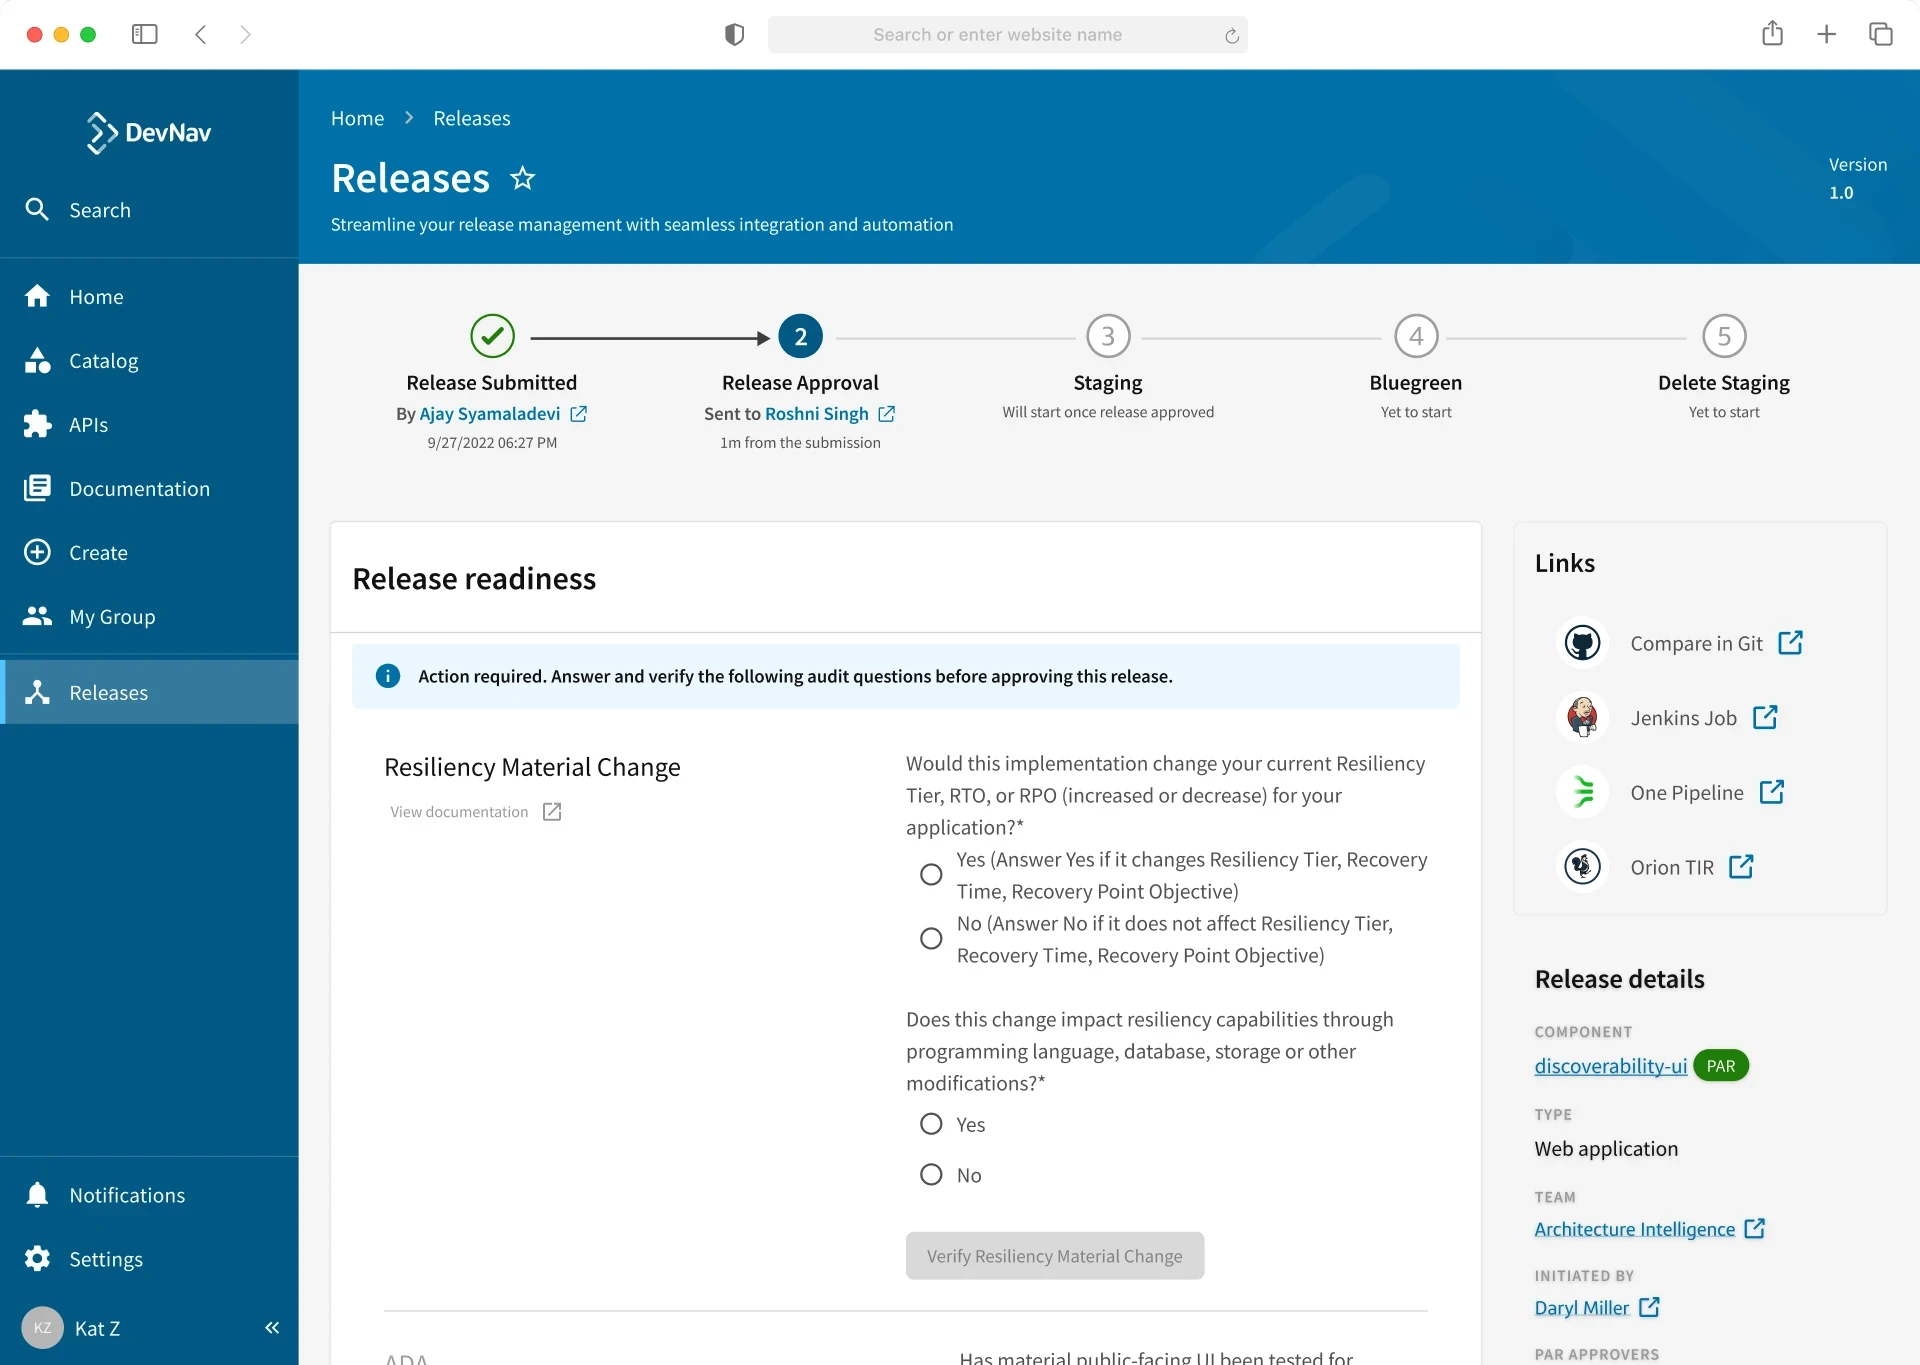
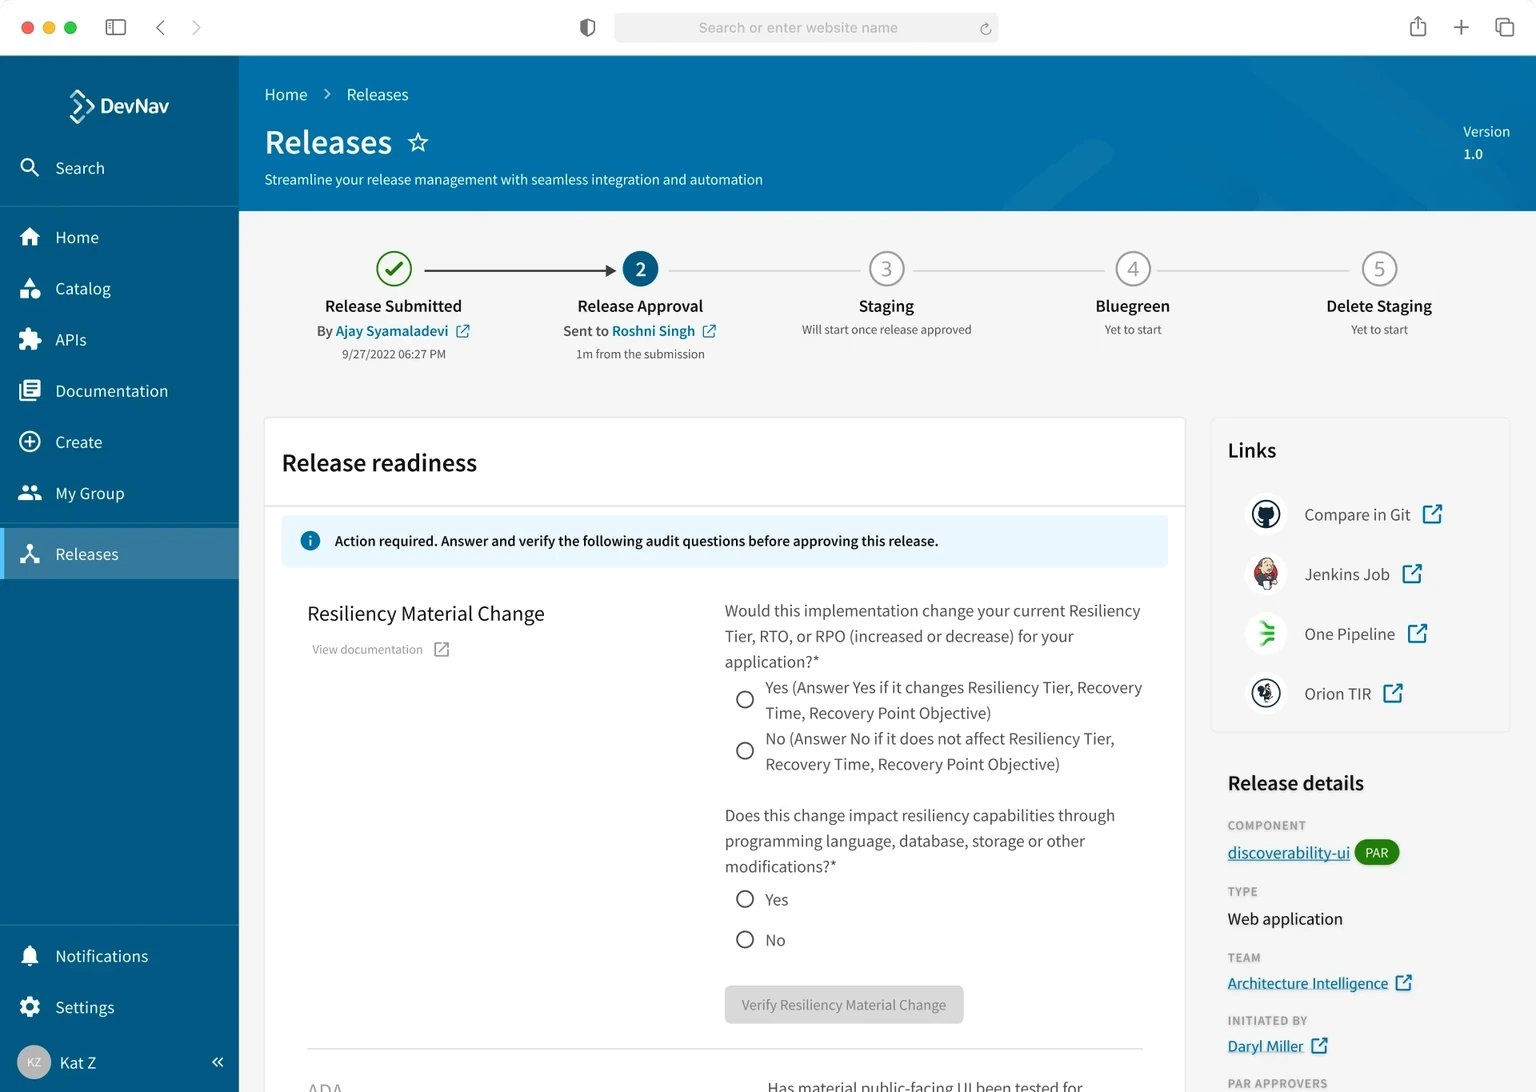
Cut site weight from 37MB to 24MB
Two problems. First, oportun-credit-servicing carried eleven hash-named
Figma exports that were byte-identical to the human-named files actually
referenced. Verified by hash, and only deleted a copy where an identical
referenced file survived.

Second, the custom image loader is a passthrough, so with output:export
there is no optimizer and originals shipped whole. 01-hero.png was
2880x2880 and 1.3MB going to phones.

Capped referenced rasters at 1536px (the width CLAUDE.md specifies as 2x
the article column) and converted to WebP q90, updating references in
caseStudies.ts and projects.ts. Checked an A/B crop of the most
text-dense screenshot at 2x magnification first; indistinguishable.
Three files came out larger as WebP and kept their PNG.

Referenced images 9.26MB -> 2.22MB. All 12 images on the heaviest page
still load, verified in the browser.

diff --git a/lib/projects.ts b/lib/projects.ts
@@ -69,7 +69,7 @@ export const projects: Project[] = [
     mascot: "⚙",
     screens: [
       `${IDP}/00-preview.svg`,
-      `${IDP}/03-new-experience.png`,
+      `${IDP}/03-new-experience.webp`,
       `${IDP}/22-final.png`,
       `${IDP}/16-concept-3a.webp`,
     ],
@@ -91,7 +91,7 @@ export const projects: Project[] = [
     tilt: 2.2,
     tags: ["#fintech", "#onboarding"],
     mascot: "$",
-    screens: [`${OPO}/00-preview.svg`, `${OPO}/01-hero.png`, `${OPO}/03-process.png`],
+    screens: [`${OPO}/00-preview.svg`, `${OPO}/01-hero.webp`, `${OPO}/03-process.webp`],
   },
   {
     no: "04",
@@ -112,9 +112,9 @@ export const projects: Project[] = [
     mascot: "💳",
     screens: [
       `${OCS}/00-preview.svg`,
-      `${OCS}/01-hero.png`,
-      `${OCS}/02-account-overview.png`,
-      `${OCS}/05-status-autopay.png`,
+      `${OCS}/01-hero.webp`,
+      `${OCS}/02-account-overview.webp`,
+      `${OCS}/05-status-autopay.webp`,
     ],
   },
   {
@@ -136,9 +136,9 @@ export const projects: Project[] = [
     mascot: "△",
     screens: [
       "/images/case-studies/demex-climate-center/00-preview.svg",
-      "/images/case-studies/demex-climate-center/05.png",
-      "/images/case-studies/demex-climate-center/08.png",
-      "/images/case-studies/demex-climate-center/01.png",
+      "/images/case-studies/demex-climate-center/05.webp",
+      "/images/case-studies/demex-climate-center/08.webp",
+      "/images/case-studies/demex-climate-center/01.webp",
     ],
   },
 ];
